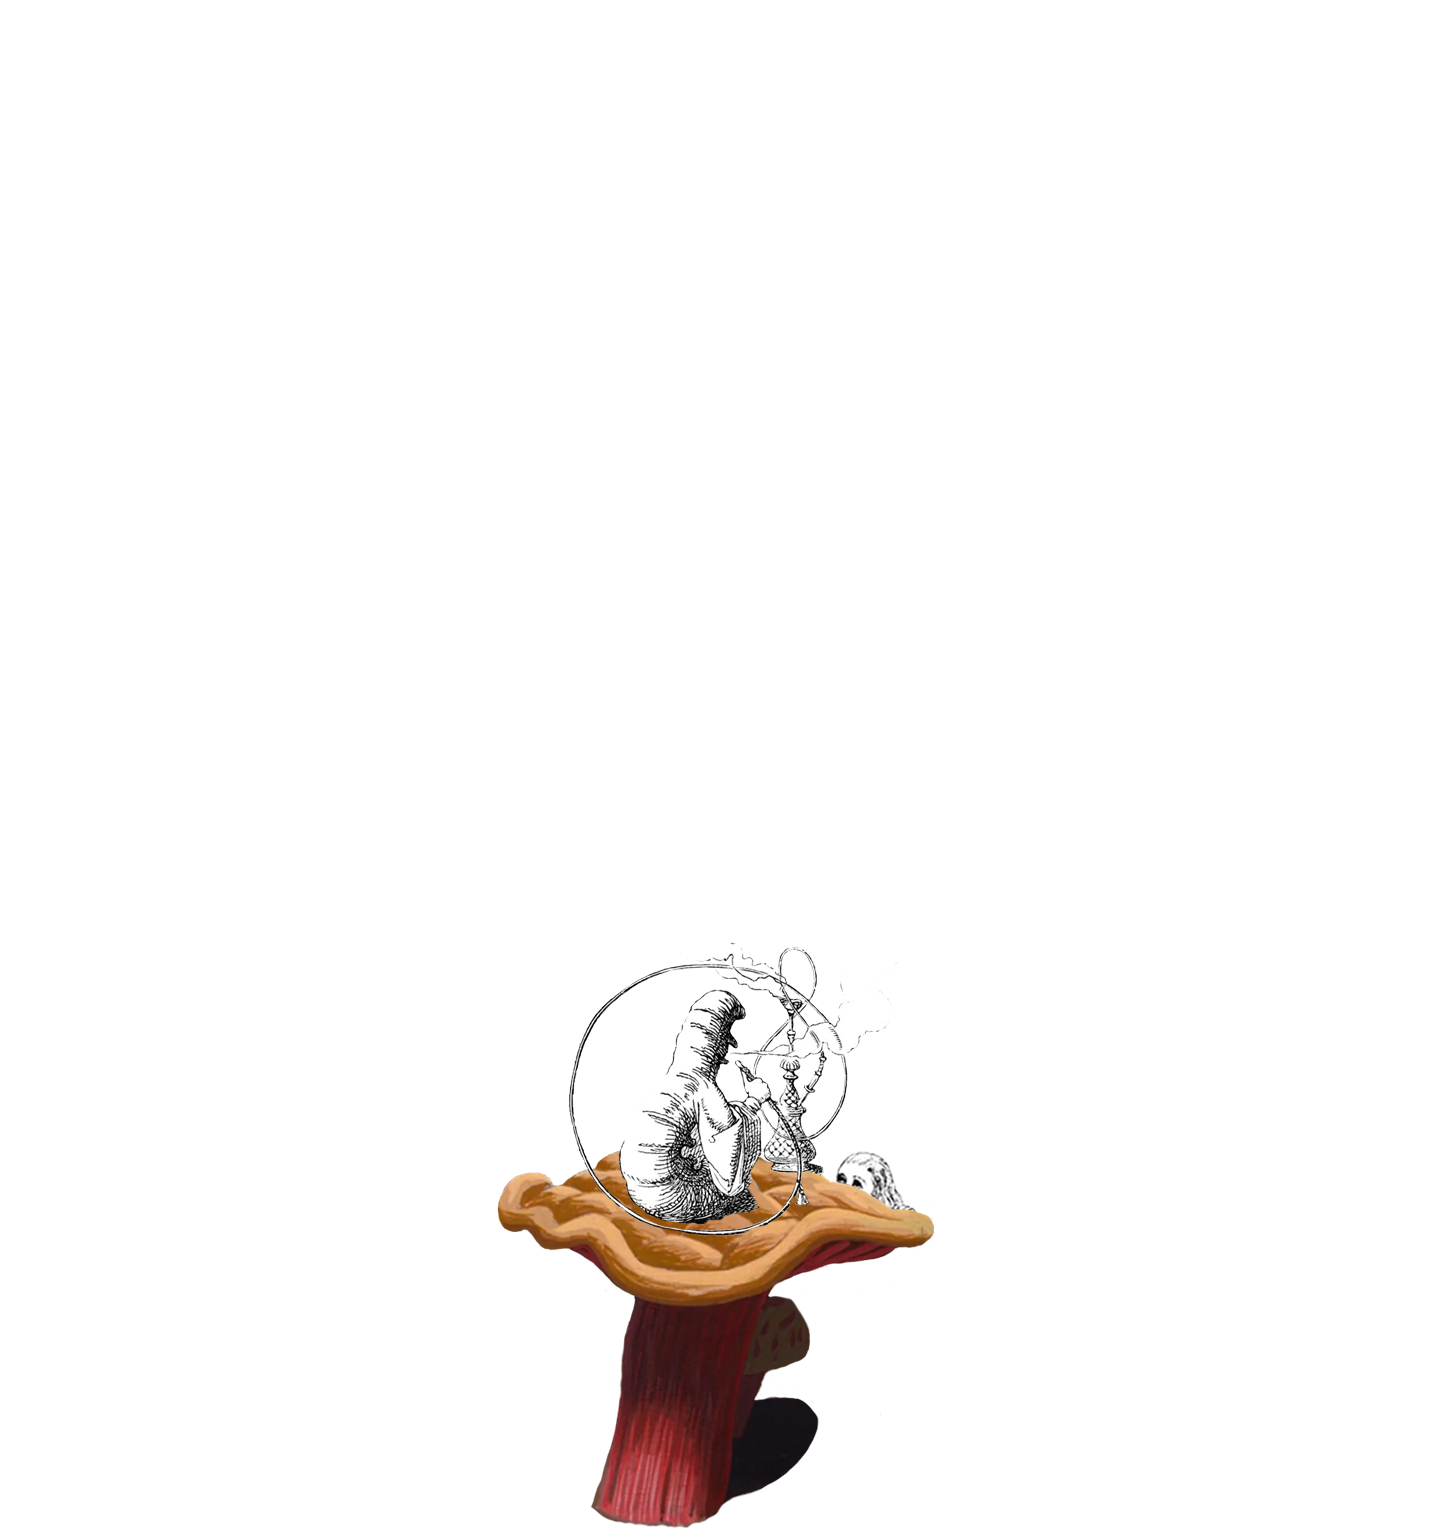
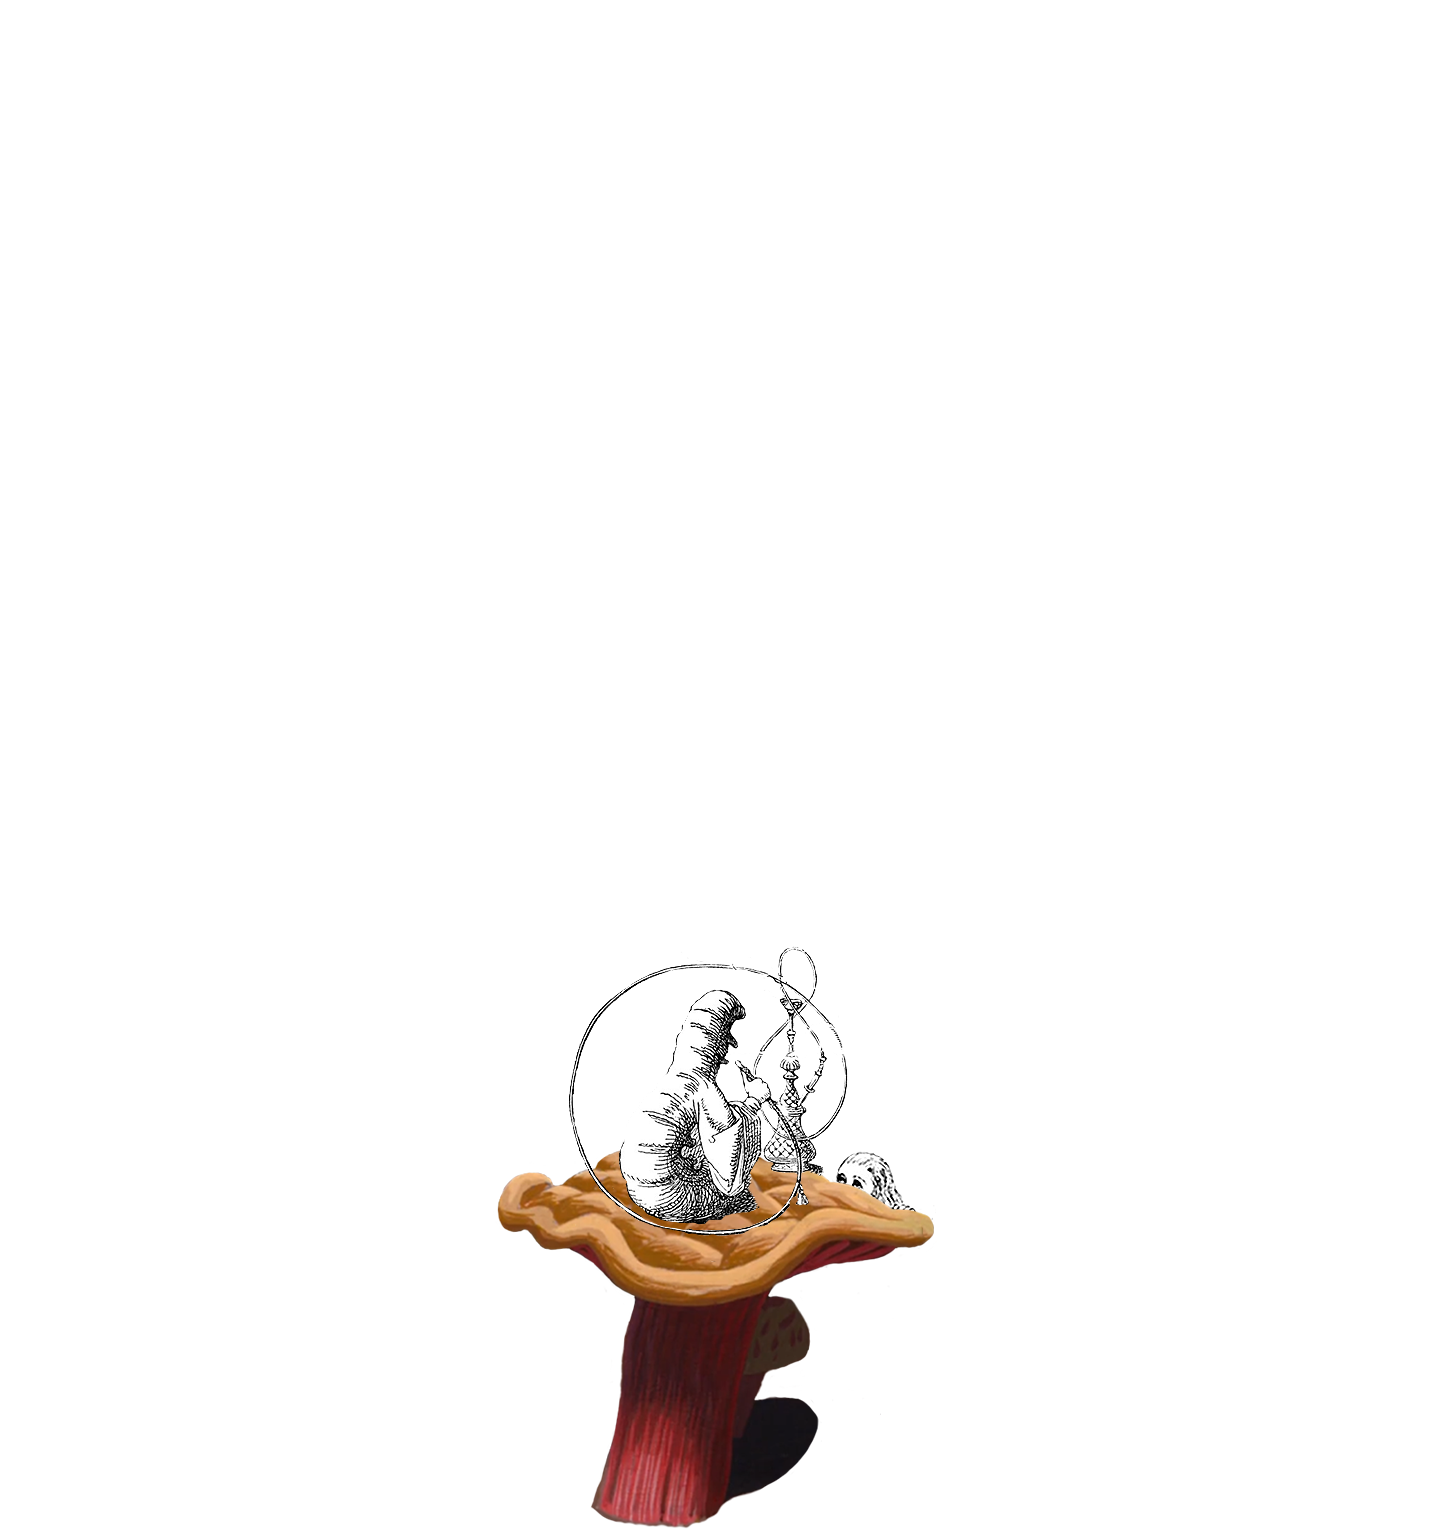
melhoria cap7
melhoria cap7

Changed region(s): [[0.4369, 0.6148, 0.5929, 0.7992], [0.5929, 0.7685, 0.6241, 0.7992]]

diff --git a/js/script5.js b/js/script5.js
@@ -29,67 +29,41 @@ document.addEventListener('DOMContentLoaded', function() {
     // Start the random toggling
     randomToggle();
 
-
     const sectionFolhas = document.getElementById('sectionfolhas');
-    const fumo = document.getElementById('cap5cena2fumo-img');
     const lagarta = document.getElementById('cap5cena1lagarta2-img');
     let animationTriggered = false;
 
     window.addEventListener('scroll', function() {
-        if (animationTriggered) return;
-
         const folhasRect = sectionFolhas.getBoundingClientRect();
-        
-        // Calculate section-specific scroll progress
         const sectionTop = folhasRect.top;
         const sectionHeight = sectionFolhas.offsetHeight;
         const viewportHeight = window.innerHeight;
-        
-        // Calculate how far we've scrolled through the section
         const scrollProgress = Math.abs(sectionTop) / (sectionHeight - viewportHeight);
 
-        if (scrollProgress >= 0.90) { // Changed to 30% of section scroll
+        if (scrollProgress >= 0.90 && !animationTriggered) {
             animationTriggered = true;
-            
+
             requestAnimationFrame(() => {
-                // 1. Move smoke in
-                fumo.classList.add('smoke-move');
-                
+                // 1. Hide caterpillar
+                lagarta.classList.add('hide-caterpillar');
+
+                // 2. Show butterfly after delay
                 setTimeout(() => {
-                    // 2. Hide caterpillar
-                    lagarta.classList.add('hide-caterpillar');
-                    
-                    // 3. Start smoke fade
-                    setTimeout(() => {
-                        fumo.classList.add('smoke-fade');
-                        
-                        // 4. Wait for smoke to fade completely before showing butterfly
-                        setTimeout(() => {
-                            const butterfly = document.getElementById('cap5cena2bor-img');
-                            butterfly.classList.add('butterfly-flying');
-                        }, 2000);
-                    }, 1500); // Increased delay for smoke fade
-                }, 2000);
+                    const butterfly = document.getElementById('cap5cena2bor-img');
+                    butterfly.classList.add('butterfly-flying');
+                }, 6000);
             });
+        } else if (scrollProgress < 0.90 && animationTriggered) {
+            animationTriggered = false;
+
+            // 1. Show caterpillar
+            lagarta.classList.remove('hide-caterpillar');
+
+            // 2. Hide butterfly
+            const butterfly = document.getElementById('cap5cena2bor-img');
+            butterfly.classList.remove('butterfly-flying');
         }
     });
 
-    // Get all frames
-    const frames = document.querySelectorAll('.animation-frame');
-    let currentFrame = 0;
     
-    // Function to change active frame
-    function changeFrame() {
-        // Remove active class from all frames
-        frames.forEach(frame => frame.classList.remove('active'));
-        
-        // Add active class to current frame
-        frames[currentFrame].classList.add('active');
-        
-        // Update current frame
-        currentFrame = (currentFrame + 1) % frames.length;
-    }
-    
-    // Start animation
-    setInterval(changeFrame, 500); // Change frame every 100ms (10 frames per second)
 });

diff --git a/cap5.html b/cap5.html
@@ -32,10 +32,12 @@
                 <div id="divfumo">
                     <div id="containercogumelo">
                         <div id="cogumelo-animation">
-                            <img src="imgcap5/1.png" alt="Cogumelo 1" class="animation-frame active">
-                            <img src="imgcap5/2.png" alt="Cogumelo 2" class="animation-frame">
-                            <img src="imgcap5/3.png" alt="Cogumelo 3" class="animation-frame">
-                            <img src="imgcap5/4.png" alt="Cogumelo 4" class="animation-frame">
+                            <img src="imgcap5/1.png" id="cap5cena1cogumelo-img">
+                            <img src="imgcap5/2.png" id="fumo-gif" >
+                        
+                             <div id="containercogumelocorpo">
+                            <img src="imgcap5/corpoAlice.png" alt="Detalhes 1" id="cap5cena1corpo-img">
+                        </div>
                         </div>
                     </div>
                 </div>
@@ -50,7 +52,6 @@
                     <!-- <img src="imgcap5/alice.png" alt="Detalhes" id="cap5cena2alice-img" class="Personagem">-->
                     <img src="imgcap5/cogumeloAlice2.png" alt="Detalhes" id="cap5cena2cogumelo-img" class="details-image">
                     <img src="imgcap5/lagarta.png" alt="Detalhes 1" id="cap5cena1lagarta2-img" class="details-image">
-                    <img src="imgcap5/fumo4.png" alt="Detalhes 1" id="cap5cena2fumo-img" class="details-image">
                     <img src="imgcap5/borbolrta.png" alt="Detalhes 1" id="cap5cena2bor-img" class="details-image">
 
 

diff --git a/css/cap5.css b/css/cap5.css
@@ -135,16 +135,22 @@ section {
     z-index: 0;
 }
 #divfumo {
-    position: relative;
-    top: 0%;
-    left: 0%;
-    height: 100vh;
-    width: 100vw;
-    z-index: 0;
+ width: 25vw;
+    right: 5vw;
+    bottom: 10vh;
 }
 
 
-
+#fumo-gif {
+  position: absolute;
+    left: 50%;
+    bottom: 0;
+    transform: translateX(-50%);
+    height: auto;
+    width: 100vw;
+    z-index: 2;
+    animation: fumoFade 6s infinite ease-in-out;
+}
 
 
 #containercogumelo {
@@ -372,26 +378,19 @@ section {
     width: 33vw;
     height: auto;
     z-index: 2000;
-    transition: opacity 1s ease-out;
+    transition: left 8s ease-in; /* Adicione esta linha */
 }
 
 .hide-caterpillar {
-    opacity: 0 !important;
+    left: -50vw !important;
+    opacity: 1;
 }
 
-#cap5cena2fumo-img {
-    position: absolute;
-    bottom: 0vh;
-    left: -100vw;
-    width: 70vw;
-    height: auto;
-    z-index: 3000;
-    transition: left 3s ease-out, opacity 2s ease-out;
-}
+
 
 #cap5cena2bor-img {
     position: absolute;
-    left: -10vw;
+    left: -15vw;
     top: 20vh;
     width: 15vw;
     height: auto;
@@ -468,4 +467,10 @@ section {
 
 .animation-frame.active {
     opacity: 1;
+}
+
+@keyframes fumoFade {
+    0% { opacity: 0; }
+    50% { opacity: 0.9; }
+    100% { opacity: 0; }
 }
